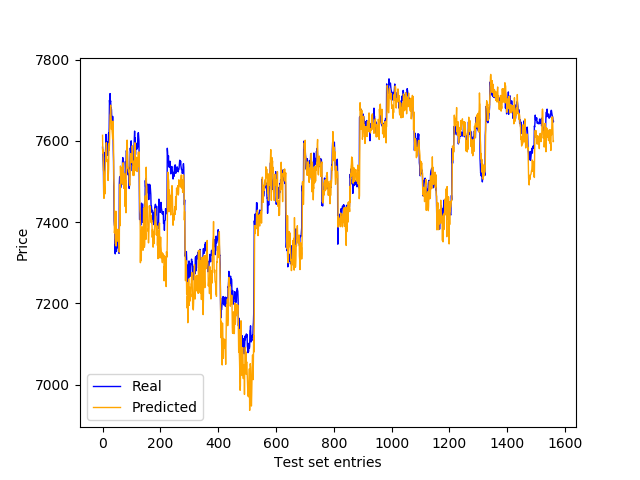
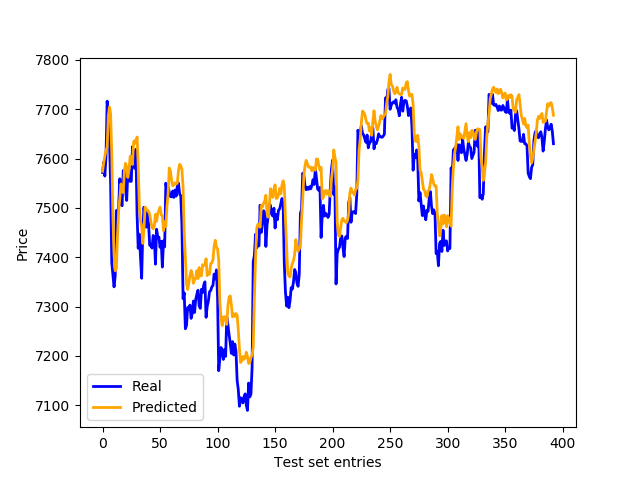
add more models + improve pipeline

diff --git a/src/models/mlp.py b/src/models/mlp.py
@@ -16,22 +16,20 @@ from sklearn.metrics import mean_squared_error, r2_score
 from sklearn.preprocessing import StandardScaler
 from sklearn.pipeline import Pipeline
 
-# Create the outputs folder - save any outputs you want managed by AzureML here
-os.makedirs('./outputs', exist_ok=True)
 
 # Load dataset
-# data_filename = 'assets/60min_final.csv'
-data_filename = 'assets/15min_prices_tweets_april.csv'
-print('Loading prep file: ', data_filename)
-df = pd.read_csv(data_filename)
+input_file = 'data/processed/tweets_prices_60min.csv'
+print('Loading prep file: ', input_file)
+df = pd.read_csv(input_file)
 print('File has been loaded \n')
 
 shift = 4
 # Split dataset into X and Y
-X = df.loc[:,'followers':'standard_deviation']
+features = ['followers_compound', 'followers_positive', 'followers_negative', 'compound_mean', 'positive_sum', 'negative_sum', 'tweet_count', 'volume']
+X = df[features]
 X_forecast = X[-shift:]
 X = X[:-shift]
-Y = df['price_change'].shift(-shift)[:-shift]
+Y = df['close'].shift(-shift)[:-shift]
 x_shape, y_shape = X.shape
 X_train, X_test, y_train, y_test = train_test_split(X, Y, test_size=0.2, shuffle=False)
 print('Training data length - ', len(X_train))
@@ -51,7 +49,7 @@ def baseline_model():
 	return model
 
 seed = 2
-epochs = 1000
+epochs = 10000
 batch_size = 128
 np.random.seed(seed)
 
@@ -59,7 +57,7 @@ estimators = []
 estimators.append(('standardize', StandardScaler()))
 estimators.append(('mlp', KerasRegressor(build_fn=baseline_model, epochs=epochs, batch_size=batch_size, verbose=1)))
 pipeline = Pipeline(estimators)
-pipeline.fit(X_train, y_train)
+history = pipeline.fit(X_train, y_train)
 
 y_pred = pipeline.predict(X_test)
 # kfold = KFold(n_splits=2, random_state=seed)
@@ -76,7 +74,7 @@ y_pred = y_pred.shift(shift)[shift:]
 y_pred_data = df.loc[y_pred.index[0] : y_pred.index[-1]]
 y_pred_data.index = pd.DatetimeIndex(y_pred_data['datetime'])
 
-plt.plot(y_pred_data.index, y_pred_data['price_change'], color='blue', linewidth=3, label='Real price change')
+plt.plot(y_pred_data.index, y_pred_data['close'], color='blue', linewidth=3, label='Real price change')
 plt.plot(y_pred_data.index, y_pred, color='orange', linewidth=3, label='Predicted price change')
 ax.xaxis.set_major_formatter(mdates.DateFormatter('%d/%m %H:%M'))
 plt.xlabel('Date')

diff --git a/src/models/lstm.py b/src/models/lstm.py
@@ -57,9 +57,11 @@ def series_to_supervised(data, n_in=1, n_out=1, dropnan=True):
 	return agg
 
 # Load dataset
-input_filename = 'data/processed/tweets_prices_15min.csv'
-df = pd.read_csv(input_filename, usecols=[2, 3, 5, 6, 9, 13, 14, 18, 19])
+input_filename = 'data/processed/tweets_prices_60min.csv'
+df = pd.read_csv(input_filename, usecols=[2, 3, 5, 6, 9, 13, 18, 19])
 print('Data has been loaded\n')
+
+# Move target values to last column
 df['close_price'] = df['close']
 df.drop(['close'], axis=1, inplace=True)
 print(df.head())
@@ -70,13 +72,13 @@ values = values.astype('float32')
 scaler = MinMaxScaler(feature_range=(0, 1))
 scaled = scaler.fit_transform(values)
 steps = 3
-n_features = 9
+n_features = 8
 n_observ = steps * n_features
 reframed = series_to_supervised(scaled, steps, 1)
-# reframed.drop(reframed.columns[[8, 9, 10, 11, 12, 13, 14]], axis=1, inplace=True)
 
 # Split into test and train, and input and output
 values = reframed.values
+print(pd.DataFrame(reframed).head())
 X, Y = values[:, :n_observ], values[:, -1]
 x_shape, y_shape = X.shape
 X_train, X_test, y_train, y_test = train_test_split(X, Y, test_size=0.3, shuffle=False)
@@ -84,7 +86,6 @@ X_train, X_test, y_train, y_test = train_test_split(X, Y, test_size=0.3, shuffle
 # reshape input to be 3D [samples, timesteps, features]
 X_train = X_train.reshape((X_train.shape[0], steps, n_features))
 X_test = X_test.reshape((X_test.shape[0], steps, n_features))
-print(X_train.shape, y_train.shape, X_test.shape, y_test.shape)
 
 # define base model
 def baseline_model():
@@ -125,8 +126,8 @@ inv_y = inv_y[:, -1]
 # calculate RMSE
 rmse = sqrt(mean_squared_error(inv_y, inv_pred))
 print('Test RMSE: %.3f' % rmse)
-plt.plot(inv_y, c='blue', label='Real', linewidth=1)
-plt.plot(inv_pred, c='orange', label='Predicted', linewidth=1)
+plt.plot(inv_y, c='blue', label='Real', linewidth=2)
+plt.plot(inv_pred, c='orange', label='Predicted', linewidth=2)
 plt.ylabel('Price')
 plt.xlabel('Test set entries')
 plt.legend()

diff --git a/src/data/fetch_live_tweets.py b/src/data/fetch_live_tweets.py
@@ -1,0 +1,38 @@
+import tweepy
+import os
+import csv
+
+keywords = ['btc', 'bitcoin', 'btc/usd', 'crypto', 'cryptocurrency', 'ico']
+columns = ['datetime', 'tweet', 'followers_count']
+TWITTER_APP_KEY = 'lwgx2D7458Vg0xBjDtsBDGbVz'
+TWITTER_APP_SECRET = 'BvMW6epZE1IAIVlIBtjTkEhkoUa1xNv1LPagfrQICLmnPzwJ9n'
+TWITTER_KEY = '933111809770373120-donuuXGOdJMrZyJ8wUDxJPv2B4KIaTd'
+TWITTER_SECRET = 'UZSHq98R5rg4mPkoMHswuAePFYBEc1Pua1VZ8d45lgdJw'
+auth = tweepy.OAuthHandler(TWITTER_APP_KEY, TWITTER_APP_SECRET)
+auth.set_access_token(TWITTER_KEY, TWITTER_SECRET)
+api = tweepy.API(auth)
+
+class StreamListener(tweepy.StreamListener):
+
+  def on_status(self, status):  
+    if status.retweeted:
+      return
+      
+    output_file = 'data/raw/live_tweets.csv'
+    if not os.path.isfile(output_file):
+      with open(output_file, 'w') as csv_file:
+        writer = csv.writer(csv_file)
+        writer.writerow(columns)
+
+    with open(output_file, 'a') as csv_file:
+      writer = csv.writer(csv_file)
+      followers_count = status.user.followers_count + status.user.friends_count
+      writer.writerow([status.created_at, status.text, followers_count])
+
+  def on_error(self, status_code):
+    if status_code == 420:
+      return False
+
+stream_listener = StreamListener()
+stream = tweepy.Stream(auth=api.auth, listener=stream_listener)
+stream.filter(track=keywords)

diff --git a/src/data/prep_tweets.py b/src/data/prep_tweets.py
@@ -3,9 +3,11 @@ import re
 import os
 import math
 from vaderSentiment import vaderSentiment
+import csv
 
-input_filename = 'data/raw/tweets.csv'
-output_filename = 'data/interim/tweets_clean.csv'
+
+input_filename = 'data/raw/live_tweets.csv'
+output_filename = 'data/interim/live_tweets_clean.csv'
 columns = ['datetime','tweet','followers_count', 'compound', 'positive', 'neutral', 'negative']
 
 counter = 0
@@ -66,11 +68,24 @@ def process(data):
         tweets.append(clean_tweet_text(str(t)))
     data.drop(['tweet'], axis = 1, inplace = True)
     data['tweet'] = tweets
-    data['datetime'] = data['date'] + ' ' + data['time']
+    # data['datetime'] = data['date'] + ' ' + data['time']
     return data
 
+tweets = []
+with open(input_filename) as csv_file:
+    reader = csv.reader(csv_file)
+    for row in reader:
+        tweets.append(row)
 
-for chunk in pd.read_csv(input_filename, engine='python', chunksize=chunksize, encoding='utf-8-sig'):
-    data = process(chunk)
-    data = sentiment(data)
-    save(data)
+df = pd.DataFrame(tweets)
+df.columns = df.iloc[0]
+df = df[1:]
+
+data = process(df)
+data = sentiment(data)
+save(data)
+
+# for chunk in pd.read_csv(input_filename, engine='python', chunksize=chunksize, encoding='utf-8-sig'):
+#     data = process(chunk)
+#     data = sentiment(data)
+#     save(data)

diff --git a/src/models/linear_regression.py b/src/models/linear_regression.py
@@ -12,27 +12,27 @@ from sklearn import metrics
 
 
 # Load dataset
-# data_filename = 'assets/60min_final.csv'
-data_filename = 'assets/15min_prices_tweets_april.csv'
-print('Loading prep file: ', data_filename)
-df = pd.read_csv(data_filename)
+input_file = 'data/processed/tweets_prices_60min.csv'
+print('Loading prep file: ', input_file)
+df = pd.read_csv(input_file)
 print('File has been loaded \n')
 
-shift = 4
+shift = 1
 # Split dataset into X and Y
-X = df.loc[:,'followers':'standard_deviation']
-print(X.head())
+features = ['followers_compound', 'followers_positive', 'followers_negative', 'compound_mean', 'positive_sum', 'negative_sum', 'tweet_count', 'volume']
+# features = ['open']
+X = df[features]
 X = preprocessing.scale(X)
 X_forecast = X[-shift:]
 X = X[:-shift]
-Y = df['price_change'].shift(-shift)[:-shift]
+Y = df['close'].shift(-shift)[:-shift]
 x_shape, y_shape = X.shape
 X_train, X_test, y_train, y_test = train_test_split(X, Y, test_size=0.2, shuffle=False)
 
 reg = LinearRegression()
 reg.fit(X_train, y_train)
 y_pred = reg.predict(X_test)
-y_pred = y_pred * 2 # for some reason predicted values are in much smaller scale
+# y_pred = y_pred * 2 # for some reason predicted values are in much smaller scale
 
 # The coefficients
 print('Coefficients: \n', reg.coef_)

diff --git a/src/features/aggregate_tweets.py b/src/features/aggregate_tweets.py
@@ -10,8 +10,8 @@ def transform(df):
   order = df.columns
   return df.resample(timeframe).agg({'datetime': 'first', 'followers': 'sum', 'compound_sum': 'sum', 'compound_mean': 'mean', 'followers_compound': 'sum', 'positive_sum': 'sum', 'positive_mean': 'mean', 'followers_positive': 'sum', 'neutral_sum': 'sum', 'neutral_mean': 'mean', 'followers_neutral': 'sum', 'negative_sum': 'sum', 'negative_mean': 'mean', 'followers_negative': 'sum', 'tweet_count': 'count'})[order]
 
-input_filename = "data/interim/tweets_expanded.csv"
-output_filename = "data/interim/tweets_aggregated_"+ timeframe +".csv"
+input_filename = "data/interim/live_tweets_expanded.csv"
+output_filename = "data/interim/live_tweets_aggregated_"+ timeframe +".csv"
 columns = ['datetime', 'followers', 'compound_sum', 'compound_mean', 'followers_compound', 'positive_sum', 'positive_mean', 'followers_positive', 'neutral_sum', 'neutral_mean', 'followers_neutral', 'negative_sum', 'negative_mean', 'followers_negative']
 
 def save(data):

diff --git a/src/features/prepare_cols.py b/src/features/prepare_cols.py
@@ -3,8 +3,8 @@ import regex as re
 import os
 import math
 
-input_filename = "data/interim/tweets_clean.csv"
-output_filename = "data/interim/tweets_expanded.csv"
+input_filename = "data/interim/live_tweets_clean.csv"
+output_filename = "data/interim/live_tweets_expanded.csv"
 chunksize = 100000
 counter = 0
 total_rows = sum(1 for row in open(input_filename, 'r'))
